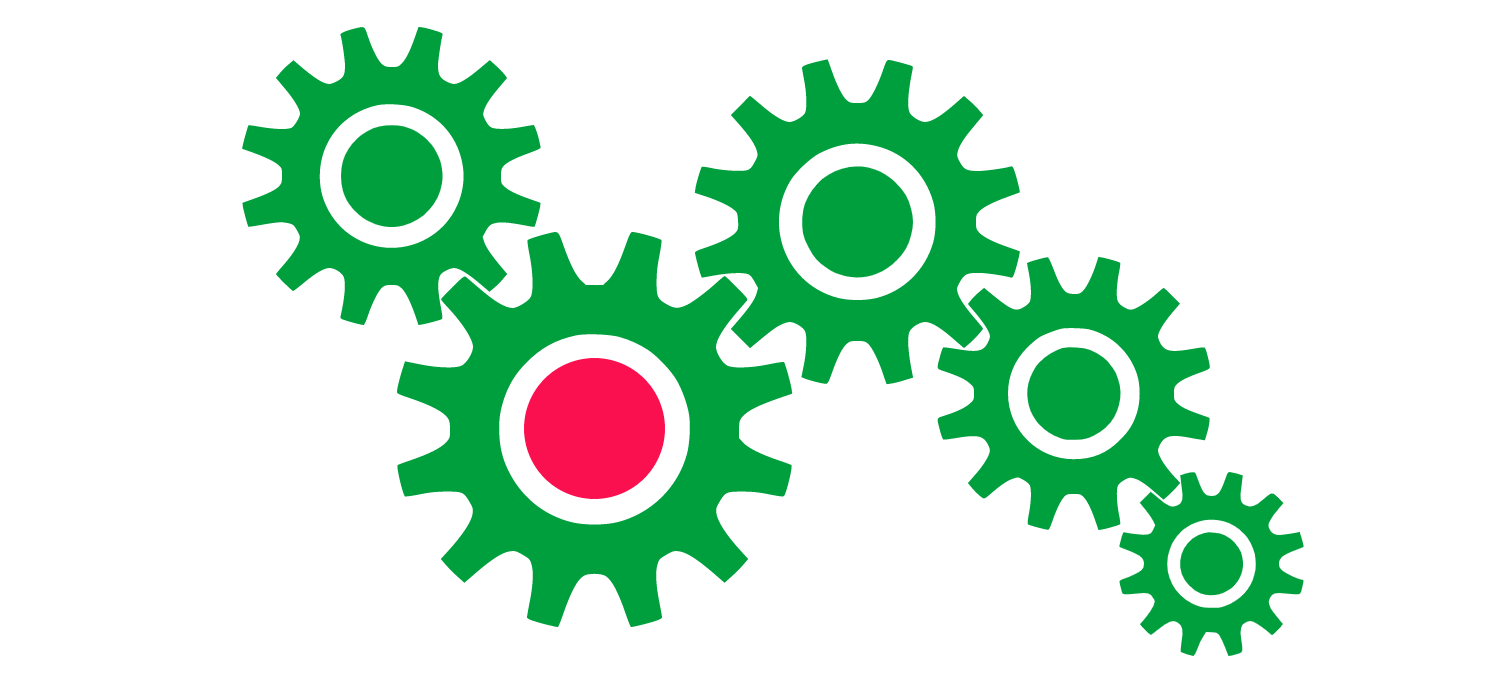
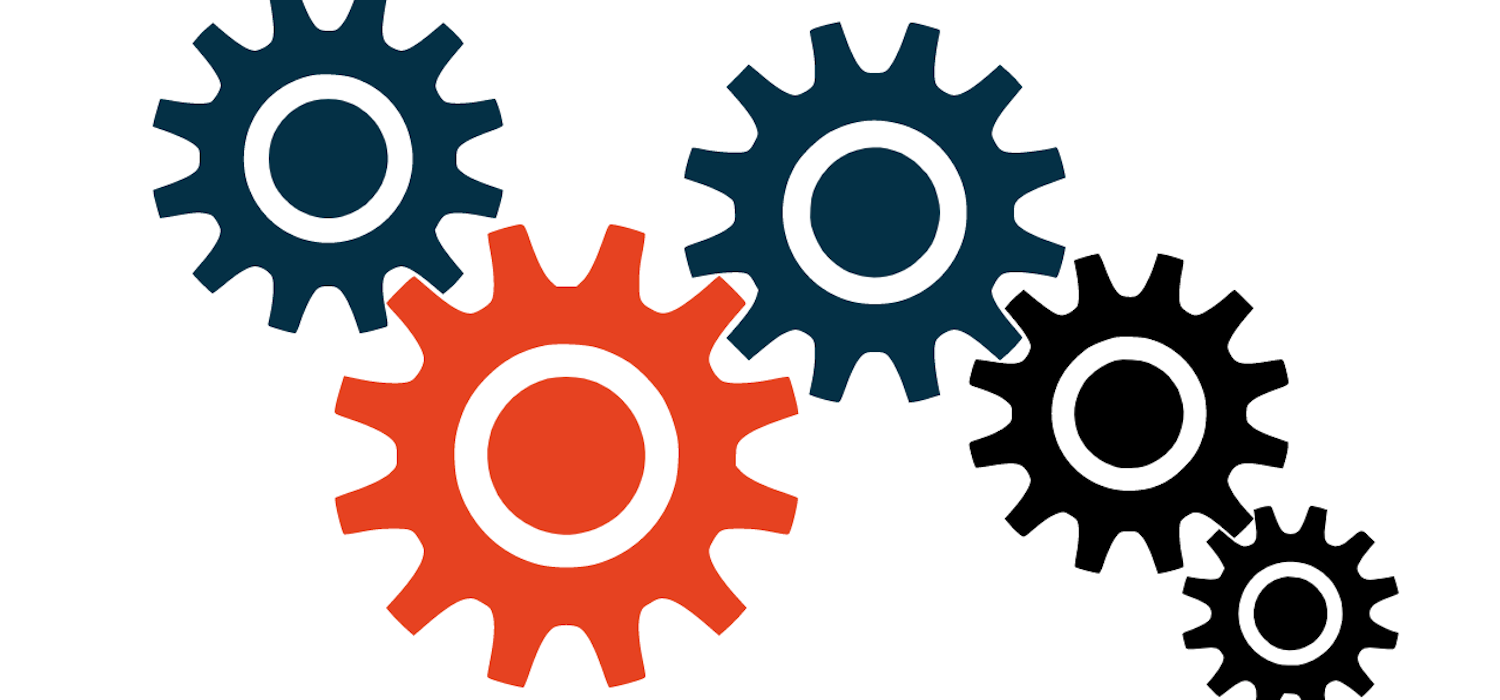
update 100 automations project card

diff --git a/_projects/100-automations.md b/_projects/100-automations.md
@@ -1,9 +1,9 @@
 ---
 identification: '276448423'
 title: 100 Automations
-description: Hack for LA seeks to reduce repetitive work in our open source projects and for the open source community.  This project will be both a showcase for the automations and/or microservices that we develop, but also a convenient home for those automations, so that they can be found, forked, and contributed to easily.
+description: Hack for LA seeks to reduce repetitive work in our open source projects and for the open source community.  This project will be both a showcase for the automations and/or microservices that we develop, but also a convenient home for those automations, so that they can be found, forked, and contributed to easily. We will be using JAMstack and a static site generator for building this website.
 image: /assets/images/projects/100automations.png
-alt: 'Open Source logo with hackforla logo on the left edge of it.'
+alt: '100 Automations logo depicted as a 1 and two intermeshed gears surrounded by a open left bracket, forward slash and closing right bracket to indicate the 100 automations are in code, followed by the word Automations.'
 image-hero: /assets/images/projects/100automations-hero.png
 alt-hero: 'Green gears with a red center on one'
 leadership:
@@ -13,9 +13,15 @@ leadership:
       slack: 'https://app.slack.com/team/U015R4RTDJA'
       github: 'https://github.com/nivenprasad'
     picture: 'https://avatars.githubusercontent.com/nivenprasad'
+  - name: Camila Arias
+    role: UI/UX Designer
+    links:
+      slack: 'https://app.slack.com/team/U018S4VQK3M'
+      github: 'https://github.com/CamilaArias'
+    picture: 'https://avatars.githubusercontent.com/CamilaArias'
 links:
    - name: Slack
-     url: 'https://hackforla.slack.com/archives/CV7QGL66B'
+     url: 'https://hackforla.slack.com/archives/C018S5TCQE7'
    - name: GitHub
      url: 'https://github.com/100Automations/website'
    - name: Readme
@@ -31,6 +37,8 @@ looking:
      skill: API integrators
    - category: Development
      skill: Frontend Javascript Developers
+   - category: Development
+     skill: Static Site Architect
 technologies:
   - GitHub Pages
   - Jekyll
